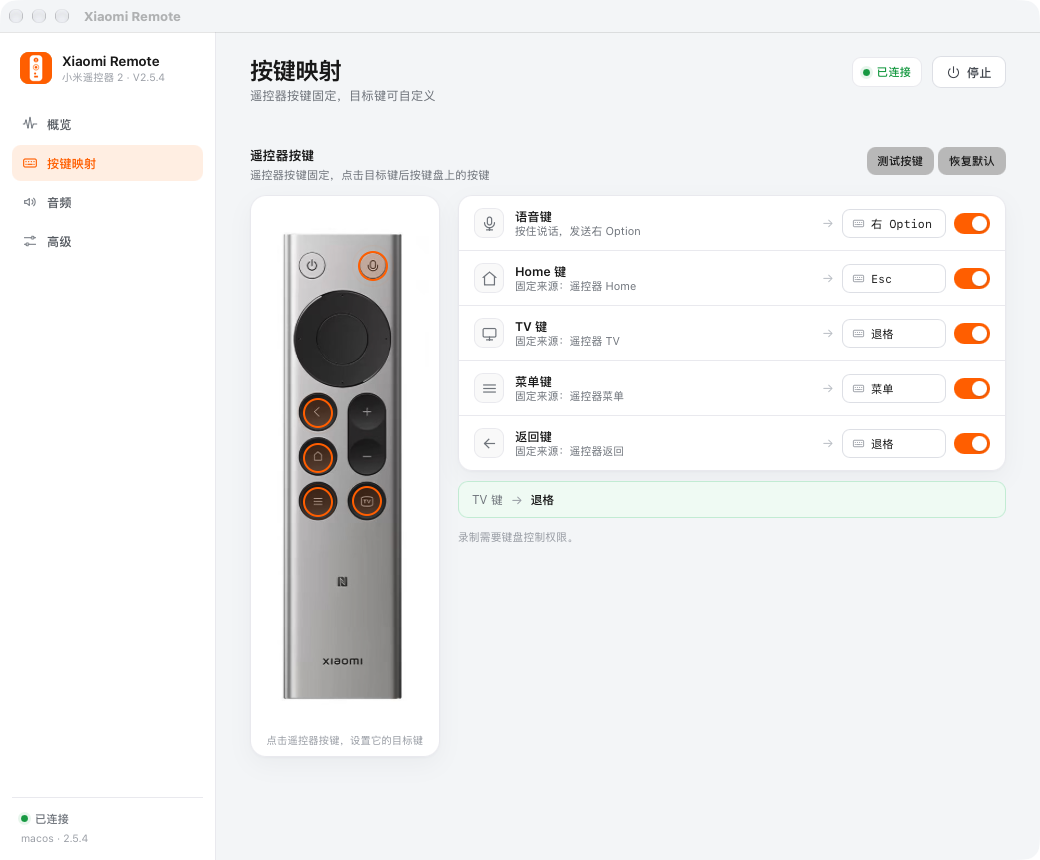
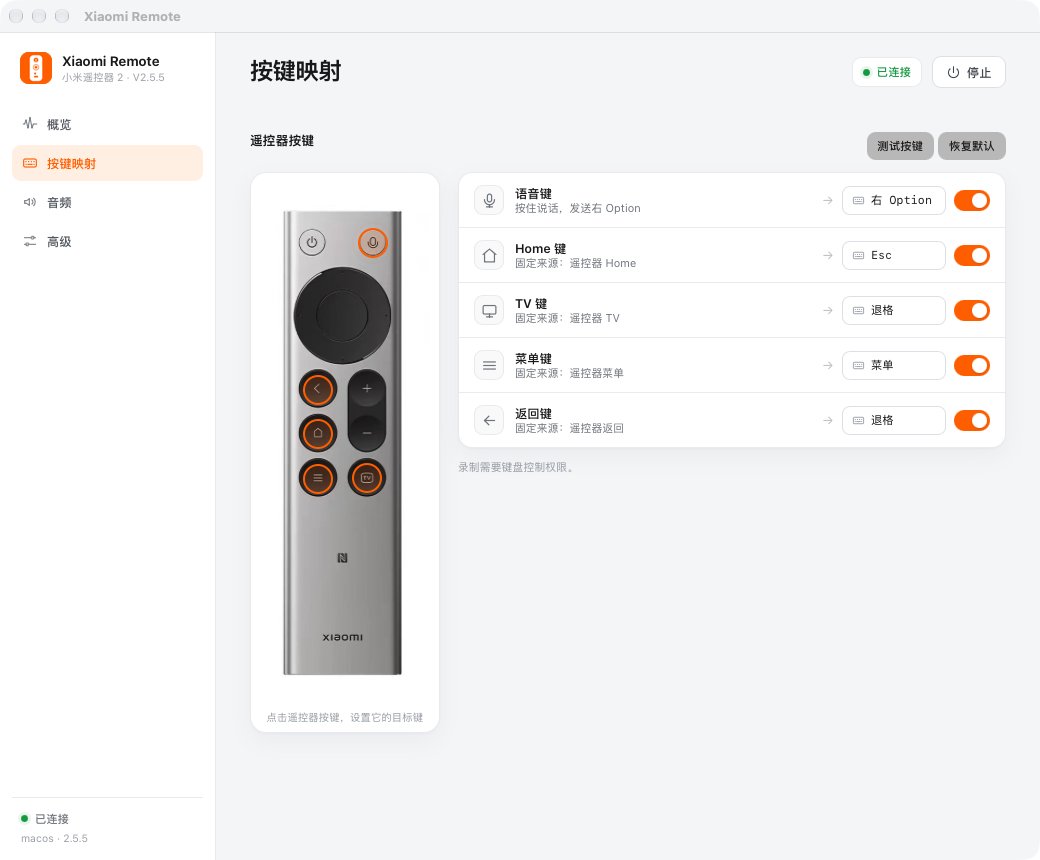
feat(v2.5.5): simplify headings and test status bar
- Remove page and section subtitle descriptions
- Remove the duplicate stop button from the in-page test bar; keep the header stop chip
- Update docs and screenshots

diff --git a/v2/src/App.tsx b/v2/src/App.tsx
@@ -1035,7 +1035,7 @@ sudo udevadm control --reload-rules && sudo udevadm trigger`;
           </span>
           <span>
             <strong>Xiaomi Remote</strong>
-            <small>小米遥控器 2 · V2.5.4</small>
+            <small>小米遥控器 2 · V2.5.5</small>
           </span>
         </div>
 
@@ -1076,7 +1076,7 @@ sudo udevadm control --reload-rules && sudo udevadm trigger`;
             <span className="status-dot" />
             <span>{stateLabel}</span>
           </div>
-          <div className="sidebar-version">{snap.platform} · 2.5.4</div>
+          <div className="sidebar-version">{snap.platform} · 2.5.5</div>
         </div>
       </aside>
 
@@ -1084,7 +1084,6 @@ sudo udevadm control --reload-rules && sudo udevadm trigger`;
         <header className="page-head">
           <div>
             <h1>{pageMeta[page].title}</h1>
-            <p>{pageMeta[page].subtitle}</p>
           </div>
           <div className="page-actions">
             {page === "keys" && testing && (
@@ -1164,7 +1163,6 @@ sudo udevadm control --reload-rules && sudo udevadm trigger`;
                 <div className="section-head">
                   <div>
                     <h3>快速设置</h3>
-                    <p>完成这三步即可开始使用</p>
                   </div>
                   <span
                     className={`count ${readyCount === steps.length ? "ok" : ""}`}
@@ -1207,10 +1205,6 @@ sudo udevadm control --reload-rules && sudo udevadm trigger`;
                 <div className="section-head">
                   <div>
                     <h3>按键</h3>
-                    <p>
-                      {backendLabel(status.key_backend)} ·{" "}
-                      {snap.key_mapping_full ? "完整映射" : "仅语音键"}
-                    </p>
                   </div>
                   <button className="btn btn-small" onClick={() => go("keys")}>
                     配置
@@ -1239,7 +1233,6 @@ sudo udevadm control --reload-rules && sudo udevadm trigger`;
                 <div className="section-head">
                   <div>
                     <h3>音频</h3>
-                    <p>{draft.audio_device}</p>
                   </div>
                   <button className="btn btn-small" onClick={() => go("audio")}>
                     配置
@@ -1275,7 +1268,6 @@ sudo udevadm control --reload-rules && sudo udevadm trigger`;
                 <div className="section-head">
                   <div>
                     <h3>遥控器按键</h3>
-                    <p>遥控器按键固定，点击目标键后按键盘上的按键</p>
                   </div>
                   <div className="section-tools">
                     <button
@@ -1301,13 +1293,8 @@ sudo udevadm control --reload-rules && sudo udevadm trigger`;
 
                 {testing && (
                   <div className="test-live">
-                    <div>
-                      <strong>测试中</strong>
-                      <span>按键事件已临时拦截，不会触发真实映射</span>
-                    </div>
-                    <button className="btn btn-small" onClick={stopTest}>
-                      停止测试
-                    </button>
+                    <span className="status-dot recording" />
+                    <span>测试中 · 按键事件已临时拦截</span>
                   </div>
                 )}
 
@@ -1431,7 +1418,6 @@ sudo udevadm control --reload-rules && sudo udevadm trigger`;
                 <div className="section-head">
                   <div>
                     <h3>虚拟麦克风</h3>
-                    <p>写入虚拟音频设备</p>
                   </div>
                   <button className="btn btn-small" onClick={() => setGuide("mic")}>
                     安装指引
@@ -1490,7 +1476,6 @@ sudo udevadm control --reload-rules && sudo udevadm trigger`;
                 <div className="section-head">
                   <div>
                     <h3>音频处理</h3>
-                    <p>调整后自动重启音频桥接</p>
                   </div>
                 </div>
                 <div className="processing-list">
@@ -1587,7 +1572,6 @@ sudo udevadm control --reload-rules && sudo udevadm trigger`;
                 <div className="section-head">
                   <div>
                     <h3>权限</h3>
-                    <p>发送干净的按键事件需要系统授权</p>
                   </div>
                   <span
                     className={`status-chip ${
@@ -1634,7 +1618,6 @@ sudo udevadm control --reload-rules && sudo udevadm trigger`;
                 <div className="section-head">
                   <div>
                     <h3>运行日志</h3>
-                    <p>{snap.logs.length} 条</p>
                   </div>
                 </div>
                 <LogList logs={snap.logs} scrollRef={logRef} />
@@ -1644,7 +1627,7 @@ sudo udevadm control --reload-rules && sudo udevadm trigger`;
                 <div className="about-grid">
                   <div>
                     <span>版本</span>
-                    <strong>2.5.4</strong>
+                    <strong>2.5.5</strong>
                   </div>
                   <div>
                     <span>平台</span>

diff --git a/v2/CHANGELOG.md b/v2/CHANGELOG.md
@@ -1,5 +1,12 @@
 # Changelog
 
+## 2.5.5
+
+### Changed
+
+- Remove page/section subtitle lines that duplicated the headings
+- Remove the duplicate stop button inside the test status bar; the header chip keeps it
+
 ## 2.5.4
 
 ### Changed
